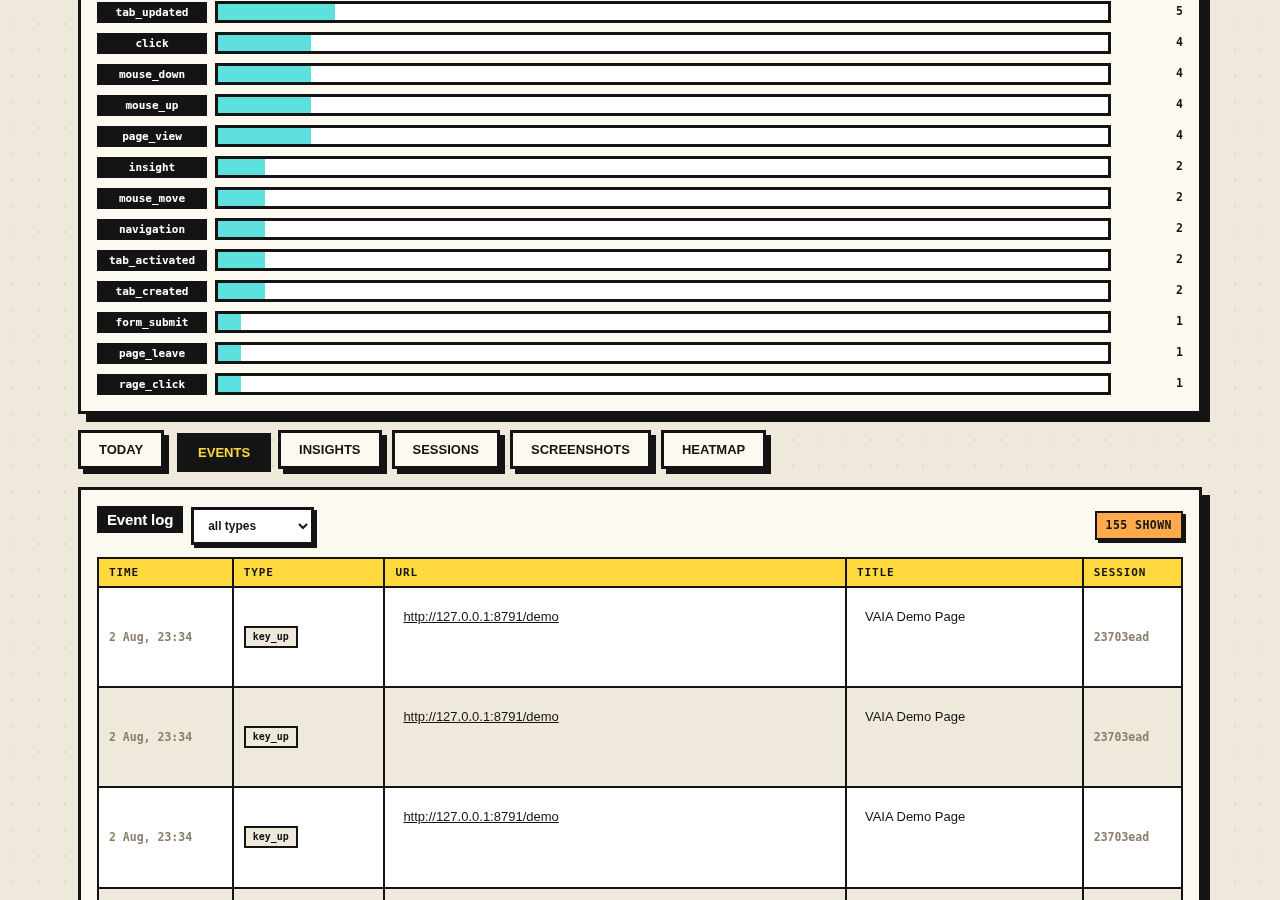
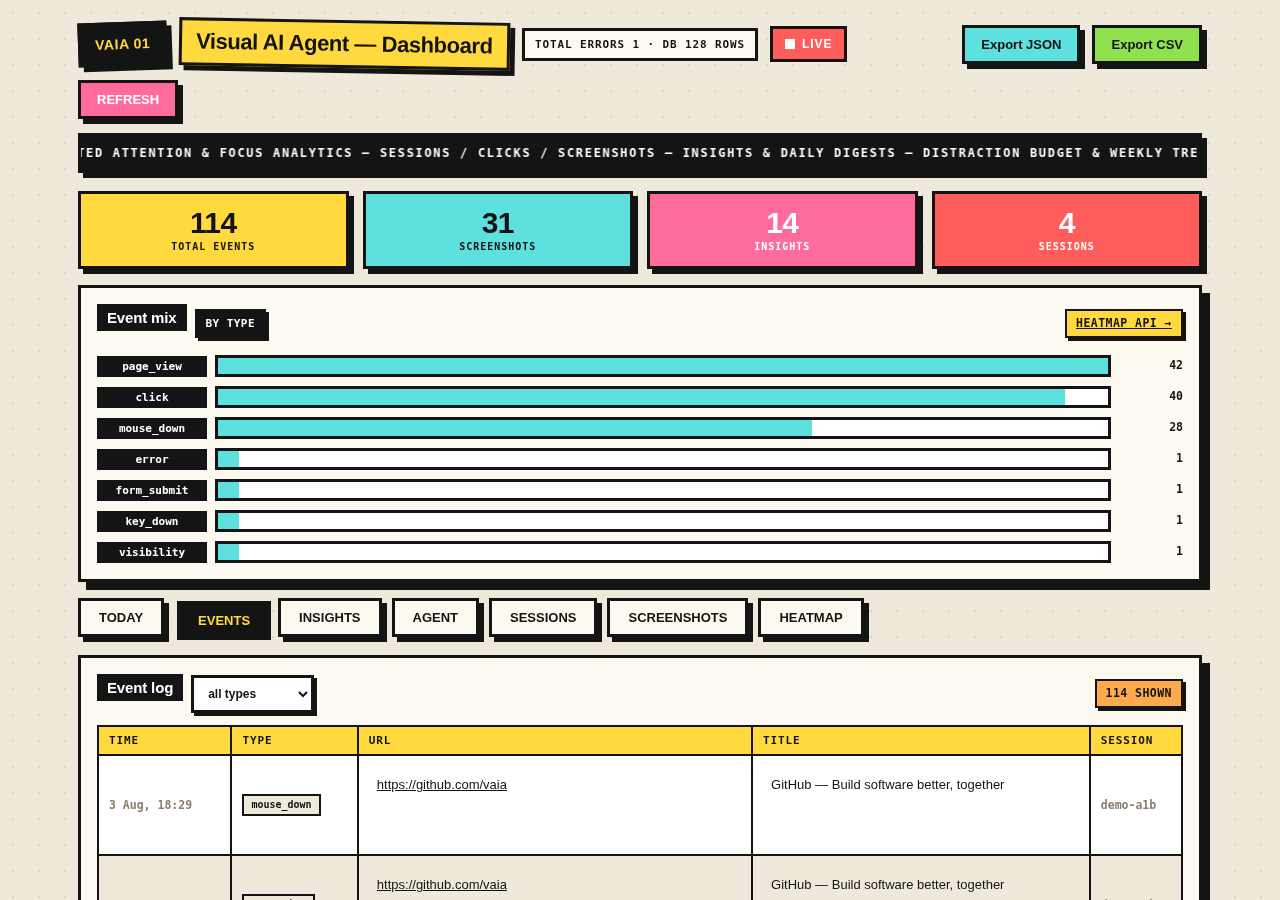
docs: screenshot every dashboard tab in the UI demos
Add scripts/capture-demo.mjs (npm run demo:capture): seeds a fresh receiver
with realistic telemetry (sessions, attention timeline, heatmap clicks,
screenshots, heuristic + agent insights) and captures all seven dashboard
tabs as demo/dash-*.png. Fix the Sessions tab focus column (data.focus not
payload) and embed the AGENT, SESSIONS, SCREENSHOTS and HEATMAP shots in the
README alongside TODAY, EVENTS and INSIGHTS.

diff --git a/server/dashboard.html b/server/dashboard.html
@@ -491,7 +491,7 @@ async function renderSessions() {
   const res = await get('/api/sessions?limit=50');
   const rows = res.rows || [];
   $('sessionsBody').innerHTML = rows.map((r)=>{
-    const focus = r.payload ? JSON.parse(r.payload).focus : null;
+    const focus = r.data && r.data.focus ? r.data.focus : null;
     const focusTxt = focus ? (focus.score*100).toFixed(0)+'%' : '—';
     return `<tr>
       <td class="mono muted">${ts(r.started_at)}</td>

diff --git a/demo/README.md b/demo/README.md
@@ -11,6 +11,10 @@ with the extension loaded in headless Chrome.
 | `dash-today.png` | Today tab — stat blocks, ranked time-on-sites, focus histogram, distraction budget meter |
 | `dash-events.png` | Events tab — neobrutalist event log table with type chips |
 | `dash-insights.png` | Insights tab — color-coded insight cards |
+| `dash-agent.png` | Agent tab — chat turns, ability runs, page reports, task transcripts |
+| `dash-sessions.png` | Sessions tab — session list with duration, events, errors, rage clicks, focus % |
+| `dash-screenshots.png` | Screenshots tab — captured frames grid served at `/shots/<file>` |
+| `dash-heatmap.png` | Heatmap tab — click/mouse-down density hotspots from the last 500 points |
 
 ## Captured activity
 
@@ -32,5 +36,15 @@ Then load the extension from this repo (`Load unpacked` in
 ## Regenerating
 
 The E2E test wipes `data/telemetry.db` and rebuilds it from scratch on every
-run, so these assets age out — re-run `npm run e2e` and re-capture
-`dash-*.png` to refresh them.
+run. To refresh the dashboard screenshots with a self-contained (non-E2E)
+seed, run:
+
+```bash
+npm install
+npm run demo:capture
+```
+
+This starts a fresh receiver on port 8792, seeds realistic telemetry
+(sessions, attention timeline, heatmap clicks, screenshots, heuristic +
+agent insights), screenshots all seven dashboard tabs, and writes
+`demo/dash-*.png`.

diff --git a/README.md b/README.md
@@ -113,6 +113,14 @@ Screenshots of the dashboard and agent runs live in `demo/`:
 
 ![Insights tab](demo/dash-insights.png)
 
+![Agent tab](demo/dash-agent.png)
+
+![Sessions tab](demo/dash-sessions.png)
+
+![Screenshots tab](demo/dash-screenshots.png)
+
+![Heatmap tab](demo/dash-heatmap.png)
+
 ## UI pages
 
 The extension ships four surfaces:
